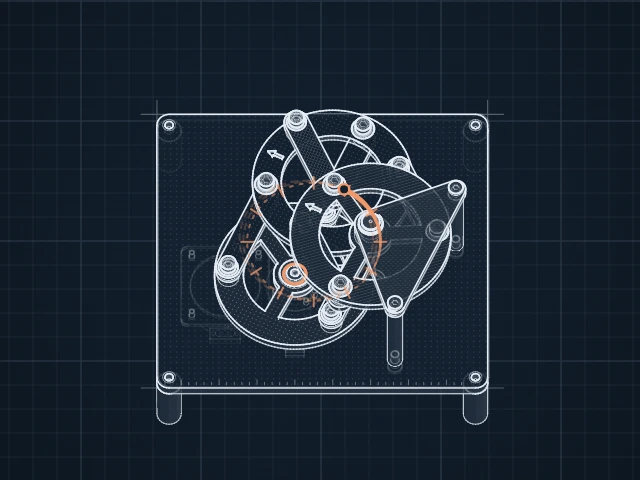
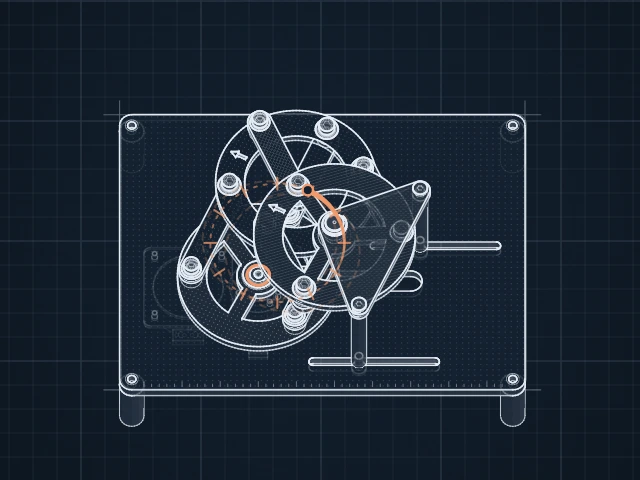
fix: the Schmidt coupling's bridge posts follow the offset, 0.47.1
A support's parts that name only the support (a bridge's posts, spigots
and screws) now take the moved joint's id, so they move and are slotted
with the rest; in 0.47.0 the Schmidt coupling's bridge left its posts
behind as the offset changed. A screw up from under the base into a
post keeps its head as the clamp and gets only a slot. With the posts
carried, the whole offset range runs clear again: 20 to 100 mm, the
ghost trace back at 90 mm.

Changed region(s): [[0.1562, 0.2188, 0.8438, 0.9062]]

diff --git a/src/builder/rules/bend.ts b/src/builder/rules/bend.ts
@@ -88,7 +88,13 @@ export const bendSlots: Rule = {
     const base = ctx.base;
     if (!base) return;
     const moved = followers(ctx);
+    const kinJoints = new Set([...ctx.kin.joints.map((j) => j.id), "drive"]);
     for (const [jid, { control, D }] of moved) {
+      // a support's parts that name only the support (a bridge's posts, spigots and screws name the bridge's posts, not
+      // the joint) follow the joint with it: they take its id, so they are moved and slotted with the rest
+      const own = new Set<string>();
+      for (const s of ctx.solids) if (s.body === "ground" && s.joints.includes(jid)) for (const t of s.joints) if (!kinJoints.has(t)) own.add(t);
+      for (const s of ctx.solids) if (s.body === "ground" && !s.joints.includes(jid) && s.joints.some((t) => own.has(t))) s.joints = [...s.joints, jid];
       const pins: string[] = [];
       const nuts: string[] = [];
       const bolts: string[] = [];
@@ -122,6 +128,12 @@ export const bendSlots: Rule = {
         if (runOf(path) < 0.05) continue;
         const M = s.thread?.m ?? Math.round(s.d ?? 5);
         ctx.baseHoles.push({ at: [at[0], at[1]], r: 0, joint: jid, ring: slotAlong(path, (s.d ?? M) / 2 + CLEAR) });
+        const head = ctx.solids.find((q) => q.group === s.group && q.kind === "head");
+        // a screw up from under the base (into a post) already clamps the support where it is set: its slot is enough
+        if (head && head.frame.o[2] < base.bottom - 0.05) {
+          bolts.push(head.id);
+          continue;
+        }
         // the bolt runs on through the base to a washer and a nut under it
         const w = WASHERS[M] ?? WASHERS[5]!;
         const nut = NUTS[M] ?? NUTS[5]!;
@@ -131,7 +143,6 @@ export const bendSlots: Rule = {
         s.frame = { ...s.frame, o: [at[0], at[1], top - L] };
         s.op = { ...s.op, h: L };
         if (s.thread) s.thread = { ...s.thread, z0: 0, z1: L };
-        const head = ctx.solids.find((q) => q.group === s.group && q.kind === "head");
         if (head?.name) head.name = head.name.replace(/ x \d+(\.\d+)? \(/, ` x ${L} (`);
         if (head) bolts.push(head.id);
         const own = { body: "ground", joints: [...s.joints], ...(s.group ? { group: s.group } : {}) };

diff --git a/tests/builder/bend.test.ts b/tests/builder/bend.test.ts
@@ -1,5 +1,6 @@
 import { describe, expect, it } from "vitest";
 import { slotAlong } from "../../src/builder/rules/bend";
+import { buildPackage } from "../../src/package/build";
 
 describe("slots along a path (F7)", () => {
   it("are round at both ends: every outline point lies r from the path, and the ends reach r past it", () => {
@@ -23,4 +24,13 @@ describe("slots along a path (F7)", () => {
     const area = ring.reduce((a, p, i) => a + p[0] * ring[(i + 1) % ring.length]![1] - ring[(i + 1) % ring.length]![0] * p[1], 0);
     expect(area).toBeGreaterThan(0);
   });
+
+  it("carry a support's parts that name only the support: the Schmidt coupling's bridge posts follow its output shaft", async () => {
+    const b = await buildPackage("schmidt-coupling");
+    const posts = b.pkg.solids.filter((s) => s.id.startsWith("O3-bridge-post"));
+    expect(posts.length).toBeGreaterThan(4);
+    for (const s of posts) expect(s.joints).toContain("O3");
+    // the screws up from under the base into the posts clamp it already: no nut is added under their heads
+    expect(b.pkg.solids.some((s) => s.kind === "nut" && s.id.startsWith("O3-bridge-post"))).toBe(false);
+  }, 120_000);
 });

diff --git a/src/mechanisms/schmidt-coupling/audit.md b/src/mechanisms/schmidt-coupling/audit.md
@@ -219,11 +219,11 @@ PASS 146 · FAIL 0 · N/A 22 · open: none
 | DL-F | 0 | 0 | 1.73 |
 | DL-G | 0 | 0 | 1.71 |
 | DL-H | 5 | 0 | 2.24 |
-| never | 127 | 263 | 1.98 |
+| never | 127 | 273 | 1.98 |
 
 ## Promotion candidates
 Promoted in this pass: ring discs (`ring: { inner, spokes, hub }`), engraved index marks (`indexMark`), a second link set's own pattern (`set: "B"` drawn as link2), the `parallel-cranks` block.
 
 ## Verification
-check: clean · K1 residual: 4.3e-14 · claims: 7 of 7 ok · clearance: 0 clashes · clamp: clean · edge distance: clean · package: 27.0 KB
+check: clean · K1 residual: 4.3e-14 · claims: 7 of 7 ok · clearance: 0 clashes · clamp: clean · edge distance: clean · package: 26.8 KB
 screenshots: dist/shots3/schmidt-coupling (record view, PLAN, FRONT, SIDE, ISOMETRIC, declared views, explode; both sheets) · bench: dist/bench/report-v2.md (desktop; frame times paced at 28 deg in the ladder above; phone by David)

diff --git a/CHANGELOG.md b/CHANGELOG.md
@@ -1,5 +1,12 @@
 # Changelog
 
+## 0.47.1, Mars — 2026-10-29
+
+- The Schmidt coupling's output support moves with the offset as one: its bridge, its two posts and their screws,
+  the posts' screws in slots in the base. In 0.47.0 the posts stayed where they were built, so the bridge left them
+  as the offset changed and the offset had been stopped at 52 mm; it runs its whole range again, 20 to 100 mm, with
+  the ghost trace back at 90 mm. A support's parts that name only the support now follow its joint.
+
 ## 0.47.0, Mars — 2026-10-29
 
 - Belts show that they run: faint marks across every motor drive belt and a timing belt's back are carried round with
